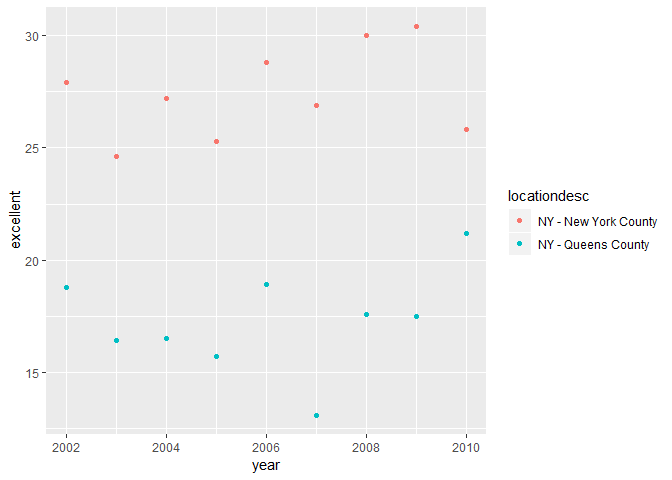
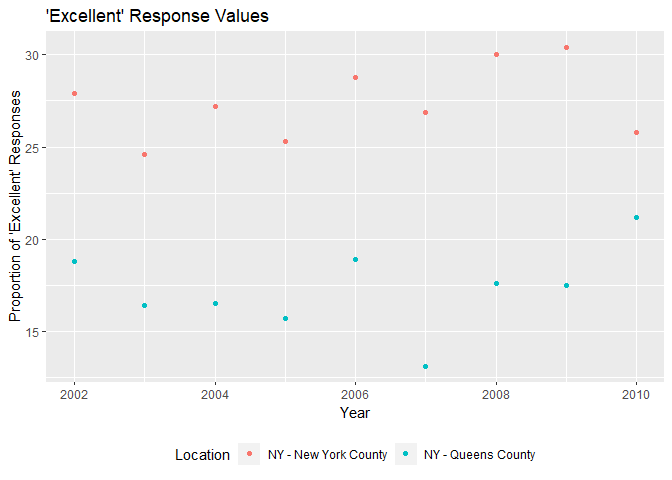
modify problem 3 and add explanatory comments to problem 3

diff --git a/p8105_hw2_cj2493.md b/p8105_hw2_cj2493.md
@@ -98,6 +98,8 @@ The data for precipitation in 2016 has information for 3 months, and the data fo
 Problem 3
 ---------
 
+Load BRFSS data from the p8105.datasets package:
+
 ``` r
 library(devtools)
 devtools::install_github("p8105/p8105.datasets")
@@ -111,6 +113,8 @@ library(p8105.datasets)
 data(brfss_smart2010)
 ```
 
+Clean the brfss data by formatting data with appropriate variable names, focusing on data about the "Overall Health" topic, excluding variables for class, topic, question, sample size, and everything from lower confidence limit to GeoLocation. Structure data so that values for Response become variables that indicate the proportion of subjects with each response. Create a new variable showing the proportion of responses that were Excellent or Very Good.
+
 ``` r
 brfss_smart2010 = janitor::clean_names(brfss_smart2010) %>%
   filter(topic == "Overall Health") %>%
@@ -119,6 +123,8 @@ brfss_smart2010 = janitor::clean_names(brfss_smart2010) %>%
   janitor::clean_names() %>%
   mutate(excellent_OR_very_good = excellent + very_good)
 ```
+
+Create manipulated versions of the data in order to better answer questions about the data.
 
 ``` r
 library(openintro)
@@ -138,15 +144,23 @@ library(openintro)
     ##     cars, trees
 
 ``` r
+location_freq = count(brfss_smart2010, locationdesc)
 state_freq = count(brfss_smart2010, locationabbr)
-state_most = abbr2state(as.character(state_freq[which.max(state_freq$n),1]))
+state_most = as.character(state_freq[which.max(state_freq$n),1])
 ```
 
 There are 404 locations included in the dataset. There are 51 states included, so all 50 states and the District of Columbia are represented. The state that is represented the most is New Jersey. In 2002, the median of the "Excellent" response value was 23.6.
 
+Make a histogram of "Excellent" response values in the year 2002:
+
 ``` r
 library(ggplot2)
-ggplot(data = filter(brfss_smart2010, year == 2002), aes(x = excellent)) + geom_histogram()
+ggplot(data = filter(brfss_smart2010, year == 2002), aes(x = excellent)) + geom_histogram() + 
+  labs(
+    title = "'Excellent' Response Values in 2002",
+    x = "Proportion of 'Excellent' Responses",
+    y = "Count"
+  )
 ```
 
     ## `stat_bin()` using `bins = 30`. Pick better value with `binwidth`.
@@ -155,8 +169,17 @@ ggplot(data = filter(brfss_smart2010, year == 2002), aes(x = excellent)) + geom_
 
 ![](p8105_hw2_cj2493_files/figure-markdown_github/excellent_histogram-1.png)
 
+Make a scatterplot showing the proportion of "Excellent" response values in New York County and Queens County in each year from 2002 to 2010:
+
 ``` r
-ggplot(data = filter(brfss_smart2010, locationdesc == "NY - New York County" | locationdesc == "NY - Queens County"), aes(x = year, y = excellent, color = locationdesc)) + geom_point()
+ggplot(data = filter(brfss_smart2010, locationdesc == "NY - New York County" | locationdesc == "NY - Queens County"), aes(x = year, y = excellent, color = locationdesc)) + geom_point() +
+  labs(
+    title = "'Excellent' Response Values",
+    x = "Year",
+    y = "Proportion of 'Excellent' Responses",
+    color = "Location"
+  ) +
+  theme(legend.position = "bottom")
 ```
 
 ![](p8105_hw2_cj2493_files/figure-markdown_github/excellent_scatterplot-1.png)
